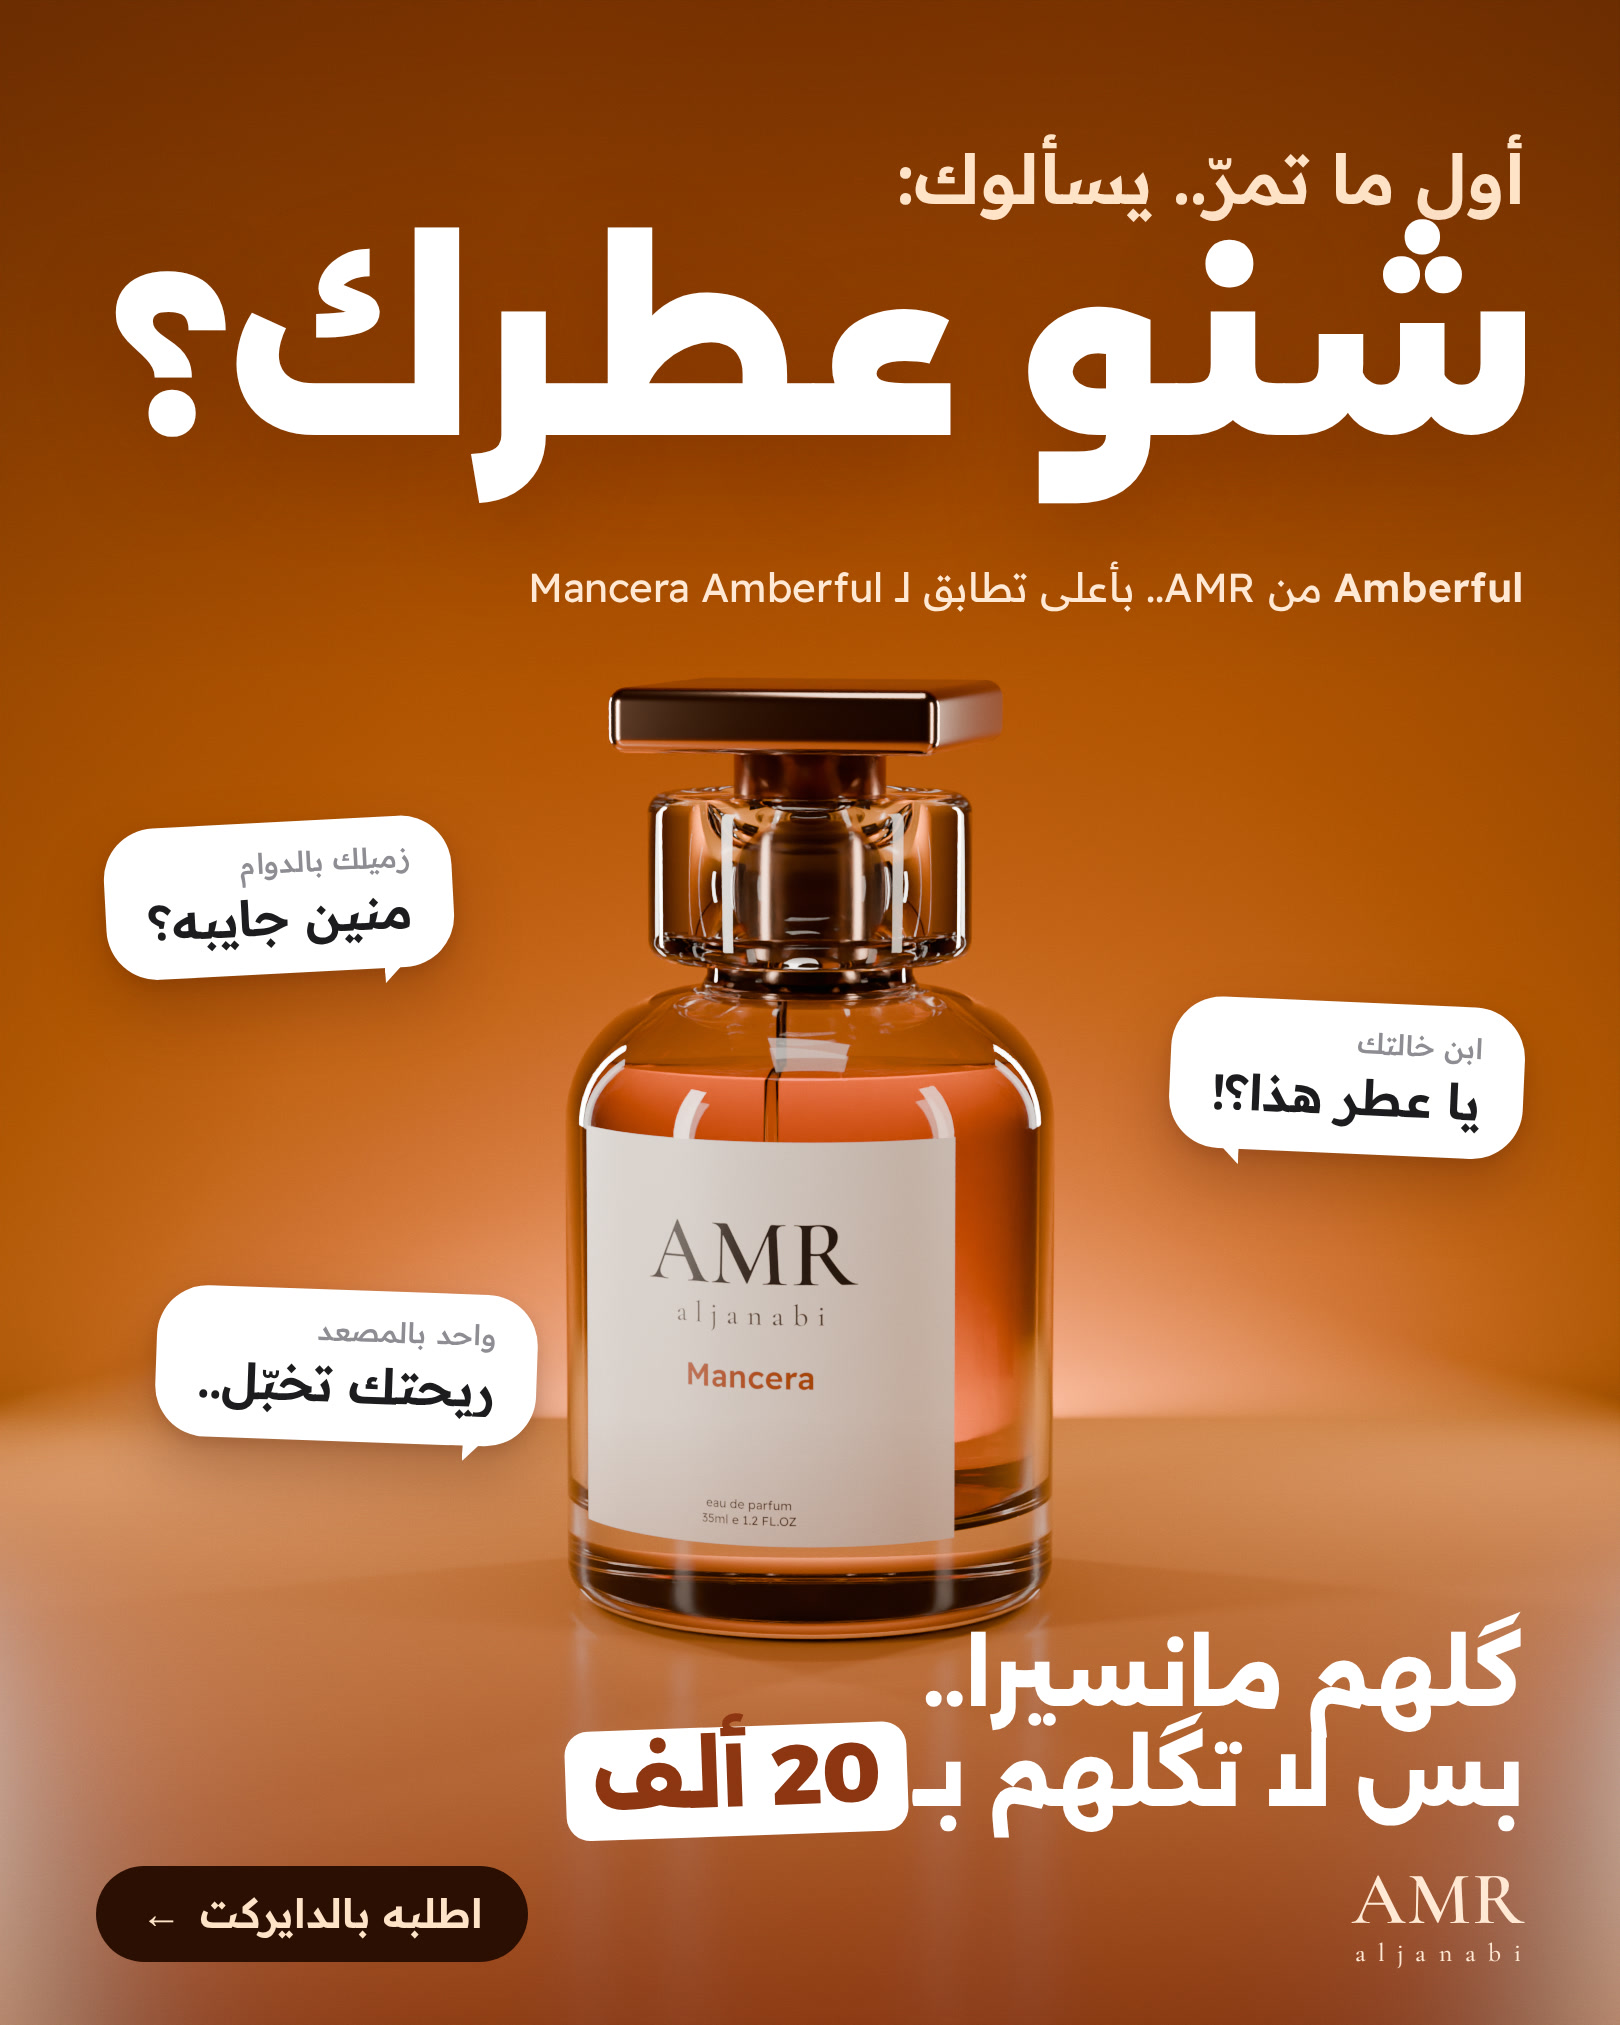
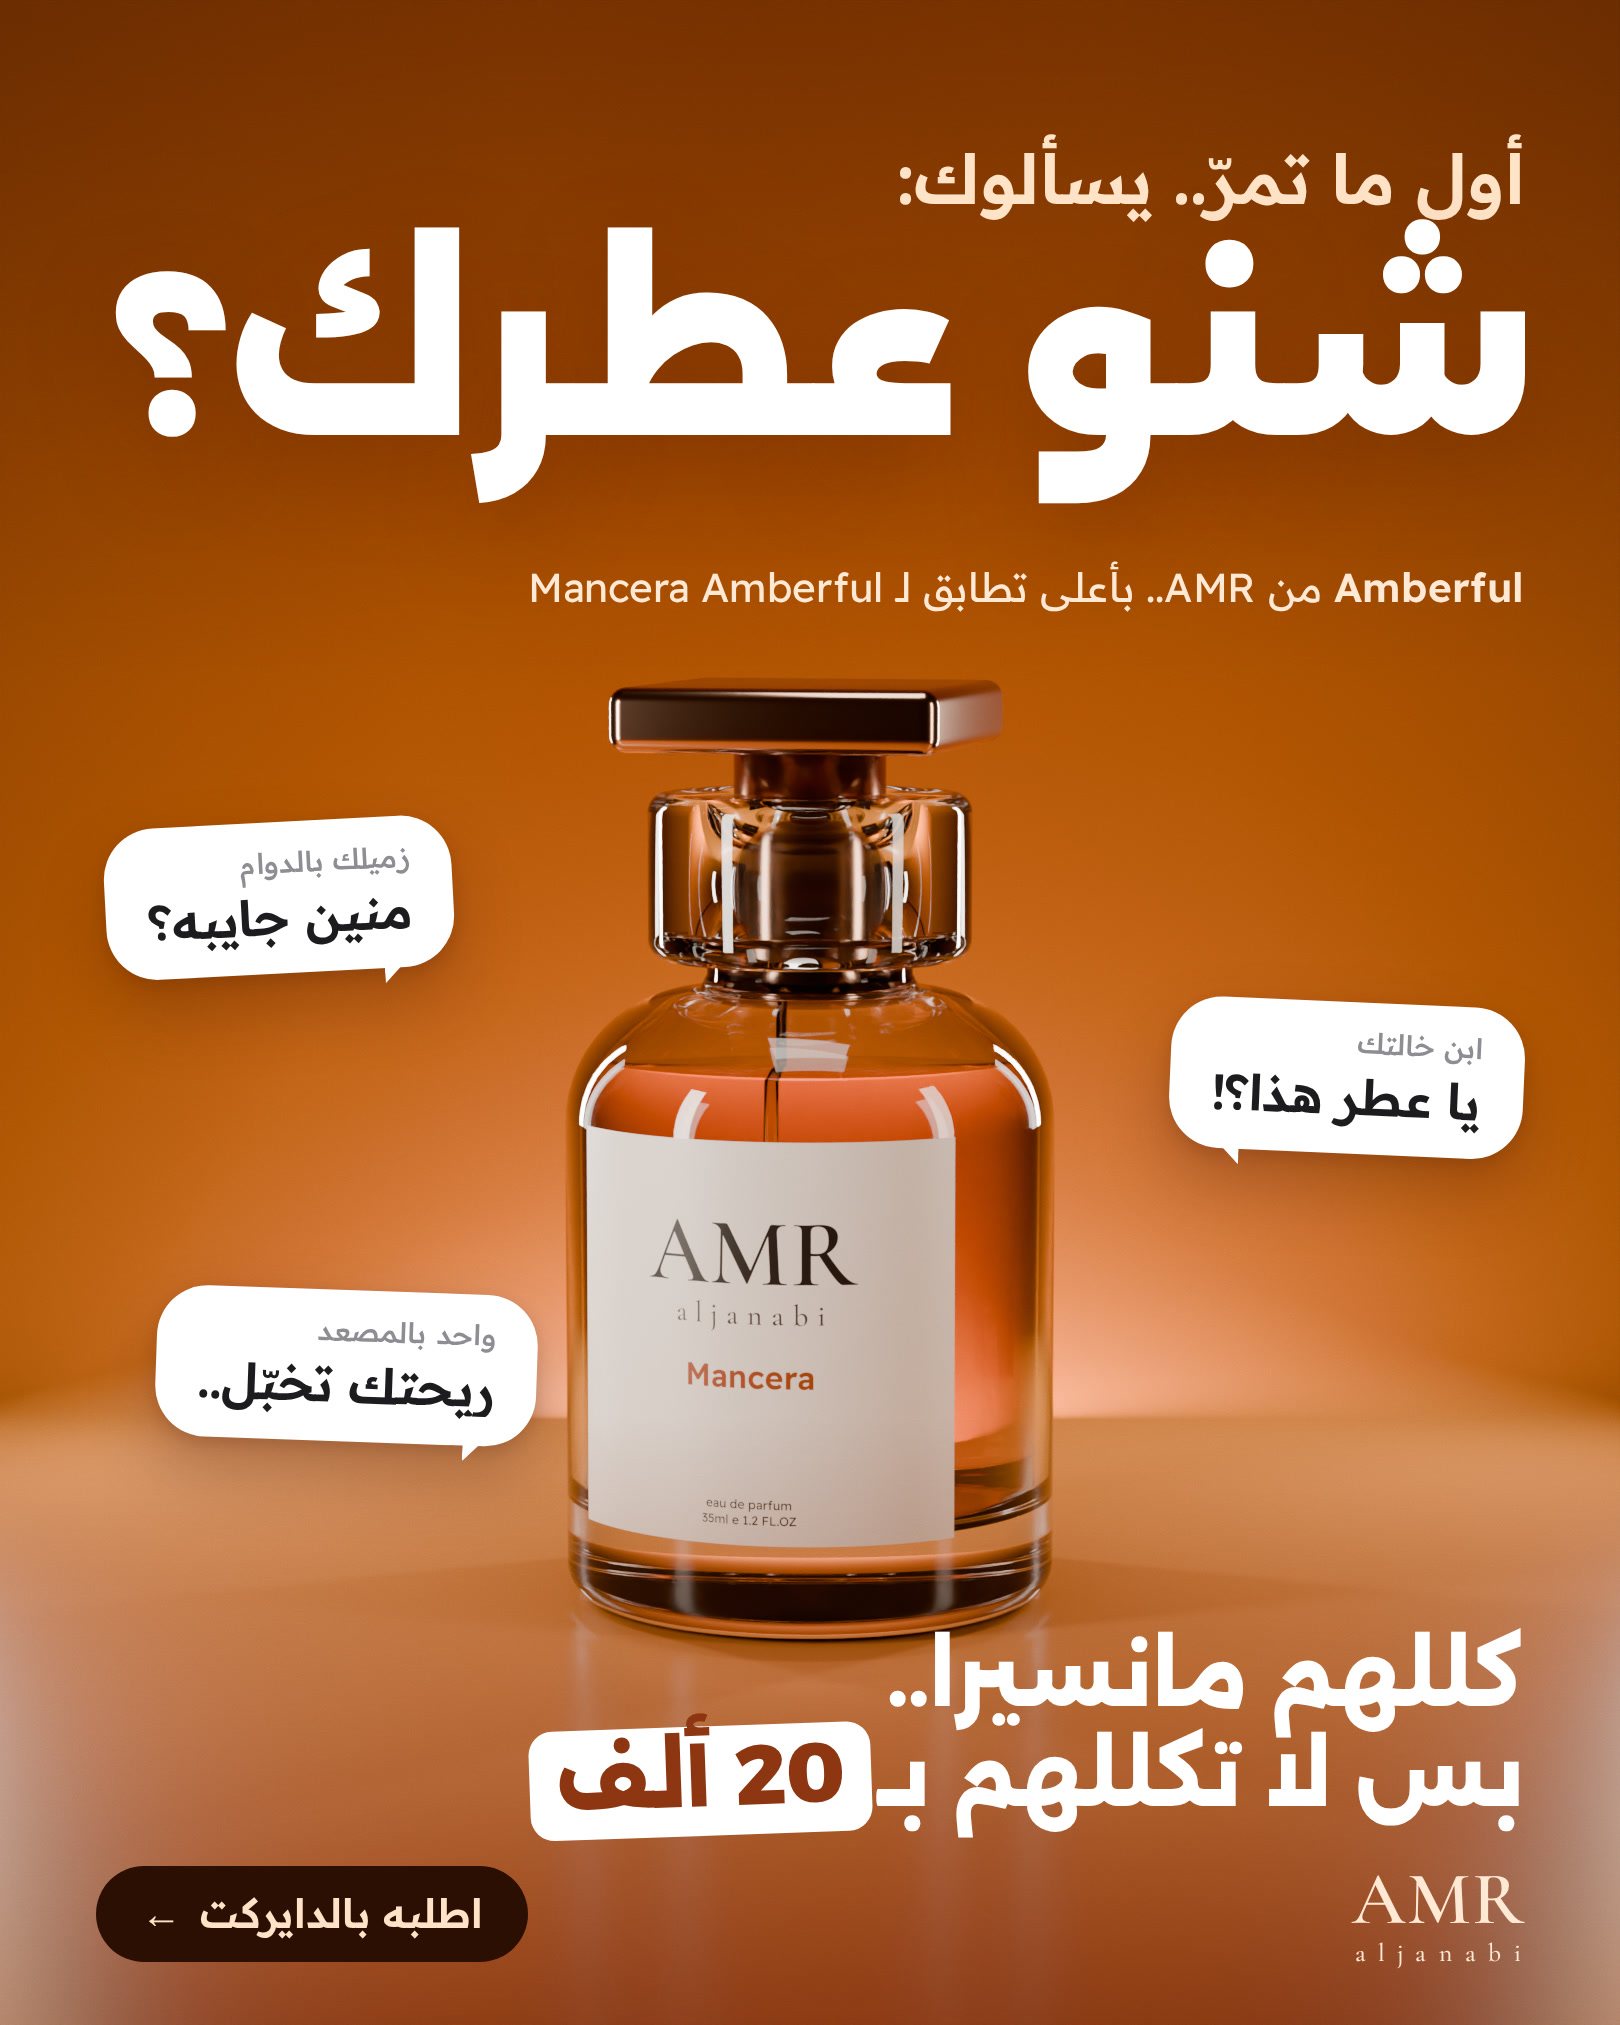
AMR pitch v6: spell the Amberful punchline the user's way (كللهم / تكللهم)
Claude-Session: https://claude.ai/code/session_013oWw8PeK3nbdaZG97hkGWn

Changed region(s): [[0.3086, 0.8089, 0.8951, 0.9333]]

diff --git a/marketing/amr-aljanabi-pitch/v6/ads.html b/marketing/amr-aljanabi-pitch/v6/ads.html
@@ -74,7 +74,7 @@ body { background: #111; display: flex; flex-direction: column; gap: 40px; align
   <div class="bub r" style="right:64px;top:668px;transform:rotate(2.5deg)"><small>ابن خالتك</small>يا عطر هذا؟!</div>
   <div class="bub l" style="left:104px;top:860px;transform:rotate(2deg)"><small>واحد بالمصعد</small>ريحتك تخبّل..</div>
 
-  <div class="punch">گلهم مانسيرا..<br/>بس لا تگلهم بـ<span class="p">20 ألف</span></div>
+  <div class="punch">كللهم مانسيرا..<br/>بس لا تكللهم بـ<span class="p">20 ألف</span></div>
   <div class="foot"><span class="cta">اطلبه بالدايركت <span>←</span></span><span class="logo"><div class="a">AMR</div><div class="b">aljanabi</div></span></div>
 </section>
 

diff --git a/marketing/amr-aljanabi-pitch/README.md b/marketing/amr-aljanabi-pitch/README.md
@@ -104,7 +104,7 @@ modelled and lit in Blender instead of a 500px reel screenshot.
 
 - `out/amberful.png` «شنو عطرك؟». The moment everyone who wears perfume wants: «أول ما تمرّ.. يسألوك: شنو عطرك؟». Chat
   bubbles from the people who ask («منين جايبه؟», «يا عطر هذا؟!», «ريحتك تخبّل..»; a dramatisation, not reviews). The
-  punchline carries the price: «گلهم مانسيرا.. بس لا تگلهم بـ 20 ألف». His Mancera flask stands on an amber studio
+  punchline carries the price: «كللهم مانسيرا.. بس لا تكللهم بـ 20 ألف» (the user's spelling). His Mancera flask stands on an amber studio
   sweep: a thick glass shell, amber juice filled to the shoulders, a glass collar, a rose-bronze sleeve and square cap,
   a dip tube, and his label.
 - `out/slazenger.png` «عطرك ذهب.. بلا مصنعية.». In an Iraqi gold shop you pay the gram price plus the «مصنعية»
